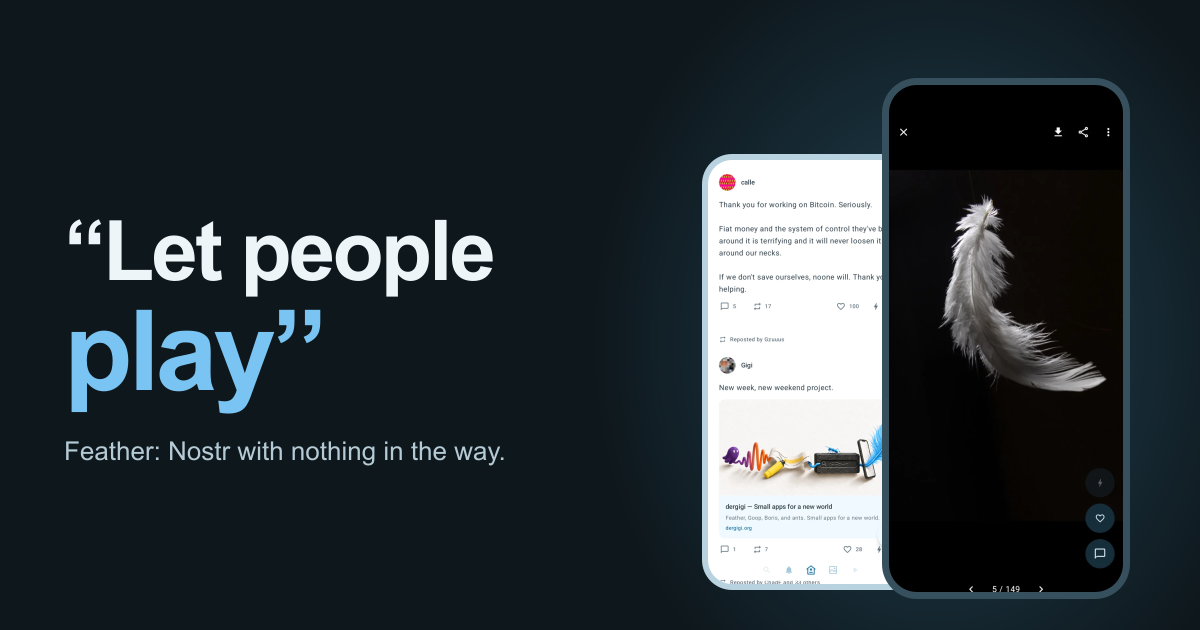
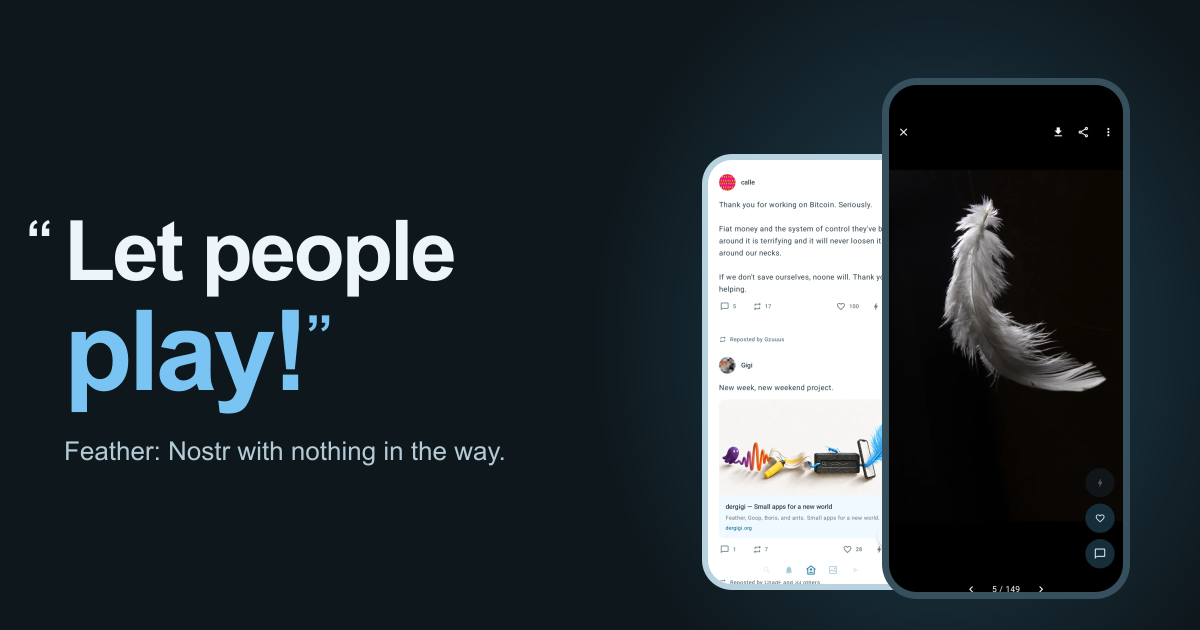
docs: align blog preview text with hanging quotation marks

Changed region(s): [[0.0308, 0.3317, 0.4317, 0.4825], [0.2158, 0.4825, 0.2775, 0.6333]]

diff --git a/website/blog/let-people-play/index.html b/website/blog/let-people-play/index.html
@@ -7,8 +7,8 @@
 <meta name="color-scheme" content="light dark"><meta name="theme-color" content="#ffffff" media="(prefers-color-scheme: light)"><meta name="theme-color" content="#10171c" media="(prefers-color-scheme: dark)">
 <link rel="canonical" href="https://feather.dergigi.com/blog/let-people-play/">
 <link rel="icon" href="/assets/icon.svg" type="image/svg+xml"><link rel="stylesheet" href="/style.css"><link rel="stylesheet" href="/blog.css">
-<meta property="og:type" content="article"><meta property="og:title" content="Let people play — Feather"><meta property="og:description" content="Gigi on removing labels, learning from a confusing login button, and borrowing video controls from VLC."><meta property="og:url" content="https://feather.dergigi.com/blog/let-people-play/"><meta property="og:image" content="https://feather.dergigi.com/assets/blog/let-people-play.png?v=2"><meta property="og:image:type" content="image/png"><meta property="og:image:width" content="1200"><meta property="og:image:height" content="630"><meta property="og:image:alt" content="“Let people play”. Feather: Nostr with nothing in the way. With app and gallery screenshots.">
-<meta name="twitter:card" content="summary_large_image"><meta name="twitter:image" content="https://feather.dergigi.com/assets/blog/let-people-play.png?v=2"><meta name="twitter:image:alt" content="“Let people play”. Feather: Nostr with nothing in the way. With app and gallery screenshots.">
+<meta property="og:type" content="article"><meta property="og:title" content="Let people play — Feather"><meta property="og:description" content="Gigi on removing labels, learning from a confusing login button, and borrowing video controls from VLC."><meta property="og:url" content="https://feather.dergigi.com/blog/let-people-play/"><meta property="og:image" content="https://feather.dergigi.com/assets/blog/let-people-play.png?v=3"><meta property="og:image:type" content="image/png"><meta property="og:image:width" content="1200"><meta property="og:image:height" content="630"><meta property="og:image:alt" content="“Let people play!” Feather: Nostr with nothing in the way. With app and gallery screenshots.">
+<meta name="twitter:card" content="summary_large_image"><meta name="twitter:image" content="https://feather.dergigi.com/assets/blog/let-people-play.png?v=3"><meta name="twitter:image:alt" content="“Let people play!” Feather: Nostr with nothing in the way. With app and gallery screenshots.">
 </head>
 <body class="blog-page"><a class="skip" href="#main">Skip to content</a>
 <header class="wrap"><a class="brand" href="/" aria-label="Feather home"><img src="/assets/feather.svg" width="35" height="35" alt="">feather</a><nav aria-label="Main navigation"><a href="/#features">Explore</a><a href="/blog/">Blog</a><a href="https://gitworkshop.dev/npub1dergggklka99wwrs92yz8wdjs952h2ux2ha2ed598ngwu9w7a6fsh9xzpc/relay.ngit.dev/feather" class="ngit-link" aria-label="Source and issues on Nostr"><svg class="app-icon" aria-hidden="true" focusable="false" viewBox="0 0 38 38"><path d="M10.6731 30.6348C8.83687 30.6346 7.34885 29.1458 7.34885 27.3096C7.34891 26.2473 7.84783 25.303 8.62326 24.6943C8.21265 23.3055 7.86571 22.049 7.45334 20.6758C6.90247 18.8412 7.4492 16.8197 8.93576 15.5605L15.7512 9.78906C15.6931 9.54286 15.6614 9.28642 15.6613 9.02246C15.6613 7.51617 16.6628 6.24465 18.0363 5.83594L18.0363 -1.11215e-06C18.511 0.000462658 18.4612 0.000975391 18.9856 0.000975533C19.5102 0.000975578 19.5802 -1.11589e-06 19.9367 -9.46012e-07L19.9367 5.83594C21.3097 6.24503 22.3108 7.5166 22.3108 9.02246C22.3107 9.29118 22.2792 9.55249 22.219 9.80273L29.0783 15.6123C30.5229 16.8359 31.1022 18.8013 30.5539 20.6133L29.3254 24.6758C30.1142 25.2837 30.6232 26.2367 30.6233 27.3096C30.6233 29.1459 29.1344 30.6348 27.2981 30.6348C25.4619 30.6346 23.9738 29.1458 23.9738 27.3096C23.974 25.4734 25.4619 23.9846 27.2981 23.9844C27.3814 23.9844 27.4643 23.9891 27.5461 23.9951L28.7356 20.0625C29.0645 18.9753 28.7166 17.7966 27.8498 17.0625L21.2424 11.4648C20.8746 11.8048 20.4294 12.0622 19.9367 12.209L19.9367 18.9258C21.0425 19.3175 21.836 20.3694 21.8362 21.6094C21.8362 23.1834 20.5596 24.46 18.9856 24.46C17.4117 24.4598 16.136 23.1833 16.136 21.6094C16.1361 20.3689 16.93 19.3172 18.0363 18.9258L18.0363 12.21C17.5395 12.0622 17.0916 11.801 16.7219 11.457L10.1643 17.0107C9.27919 17.7605 8.93068 18.9867 9.27365 20.1289C9.68708 21.5056 10.0175 22.7009 10.3986 23.998C10.4892 23.9906 10.5806 23.9844 10.6731 23.9844C12.5093 23.9844 13.9981 25.4733 13.9983 27.3096C13.9983 29.1459 12.5094 30.6348 10.6731 30.6348Z" fill="currentColor"/></svg></a></nav></header>
